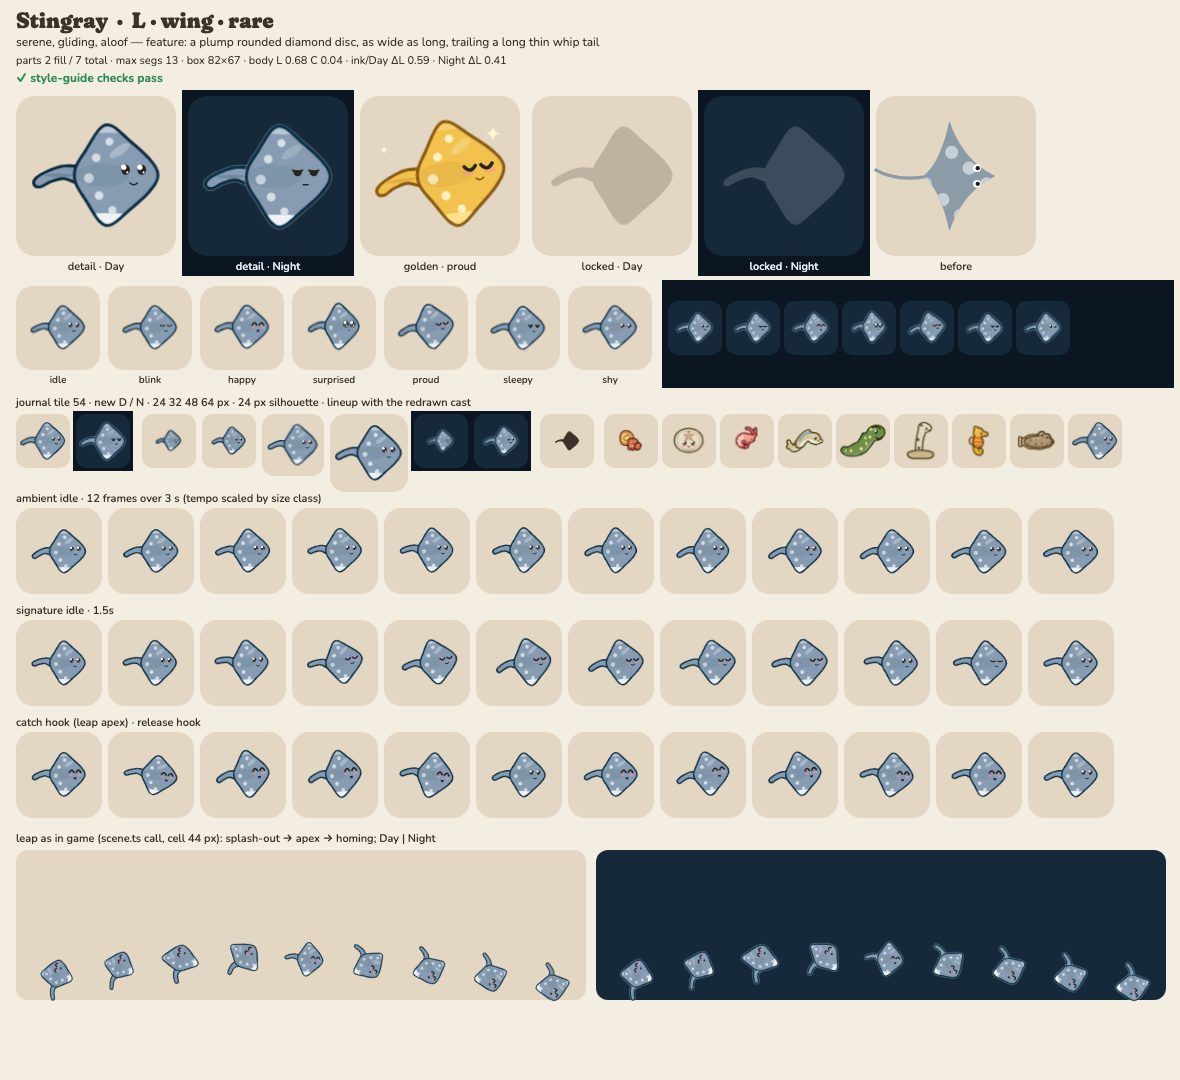
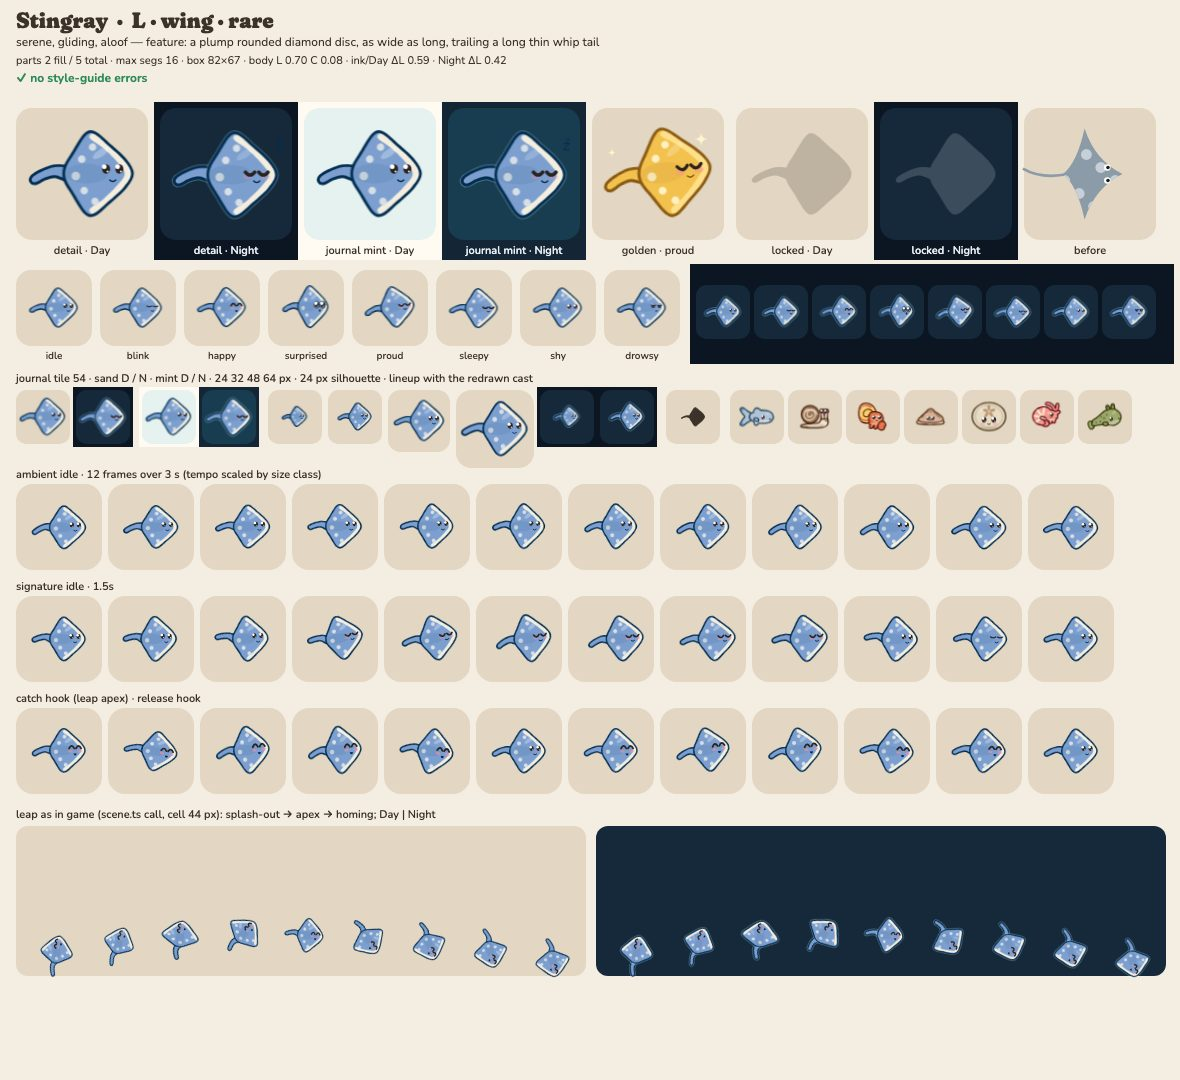
render: stingray B fixes — cream leading-edge rim, bluer body (ADR 0011)
CRITIQUE-1 B. The belly wedge that read as a stain is now a cream rim along the leading edge; body #7C9FD0 (C 0.08, reads on mint) with pale spots >= 6 u; eye 7.8 u. Lint clean.

diff --git a/src/render/art/species/stingray.ts b/src/render/art/species/stingray.ts
@@ -27,7 +27,23 @@ const tail = tube([
   [-38, 1, 2.8],
   [-45, 5, 2.5],
 ]);
-const spots = join(circle(-6, -12, 3), circle(-11, 2, 3.4), circle(-4, 14, 3), circle(3, -23, 2.8), circle(5, 24, 2.8));
+const spots = join(
+  circle(-6, -12, 3.2),
+  circle(-11, 2, 3.6),
+  circle(-4, 14, 3.2),
+  circle(3, -22, 3.1),
+  circle(5, 23, 3.1),
+);
+// a cream rim along the leading edge (the belly peeking round the front, not a wedge)
+const rim = tube([
+  [3, -30.5, 2.6],
+  [14, -23, 2.8],
+  [27, -10, 2.8],
+  [32.5, 0, 2.8],
+  [27, 10, 2.8],
+  [14, 23, 2.8],
+  [3, 30.5, 2.6],
+]);
 
 export default defineArt({
   id: 'stingray',
@@ -35,22 +51,18 @@ export default defineArt({
   size: 'L',
   feature: 'a plump rounded diamond disc, as wide as long, trailing a long thin whip tail',
   personality: ['serene', 'gliding', 'aloof'],
-  palette: { body: '#879CB2', accent: '#D6DEE6', belly: '#EEF2F5' },
+  palette: { body: '#7C9FD0', accent: '#D6DEE6', belly: '#F3EEDF' },
   groups: [
     {
       id: 'tail',
       pivot: [-17, 0],
-      parts: [
-        { d: tail, role: 'body' },
-        { d: ellipse(-31, 0, 10, 1.2, 0), role: 'ink', kind: 'pattern', alpha: 0.18 },
-      ],
+      parts: [{ d: tail, role: 'body' }],
     },
     {
       id: 'body',
       parts: [
         { d: disc, role: 'body' },
-        { d: ellipse(2, 34, 32, 8), role: 'belly', kind: 'pattern' },
-        { d: ellipse(2, -35, 30, 6), role: 'belly', kind: 'pattern', alpha: 0.5 },
+        { d: rim, role: 'belly', kind: 'pattern' },
         { d: spots, role: 'accent', kind: 'pattern' },
         { d: ellipse(-2, 0, 18, 8), role: 'ink', kind: 'pattern', alpha: 0.08 },
       ],
@@ -62,9 +74,9 @@ export default defineArt({
       [14, -4],
       [25, -4],
     ],
-    eye: 7,
+    eye: 7.8,
     front: true,
-    zone: [4, -21, 32, 30],
+    zone: [4, -22, 32, 33],
     mouth: { at: [19.5, 5], w: 5, shape: 'smile' },
   },
   idle: {
